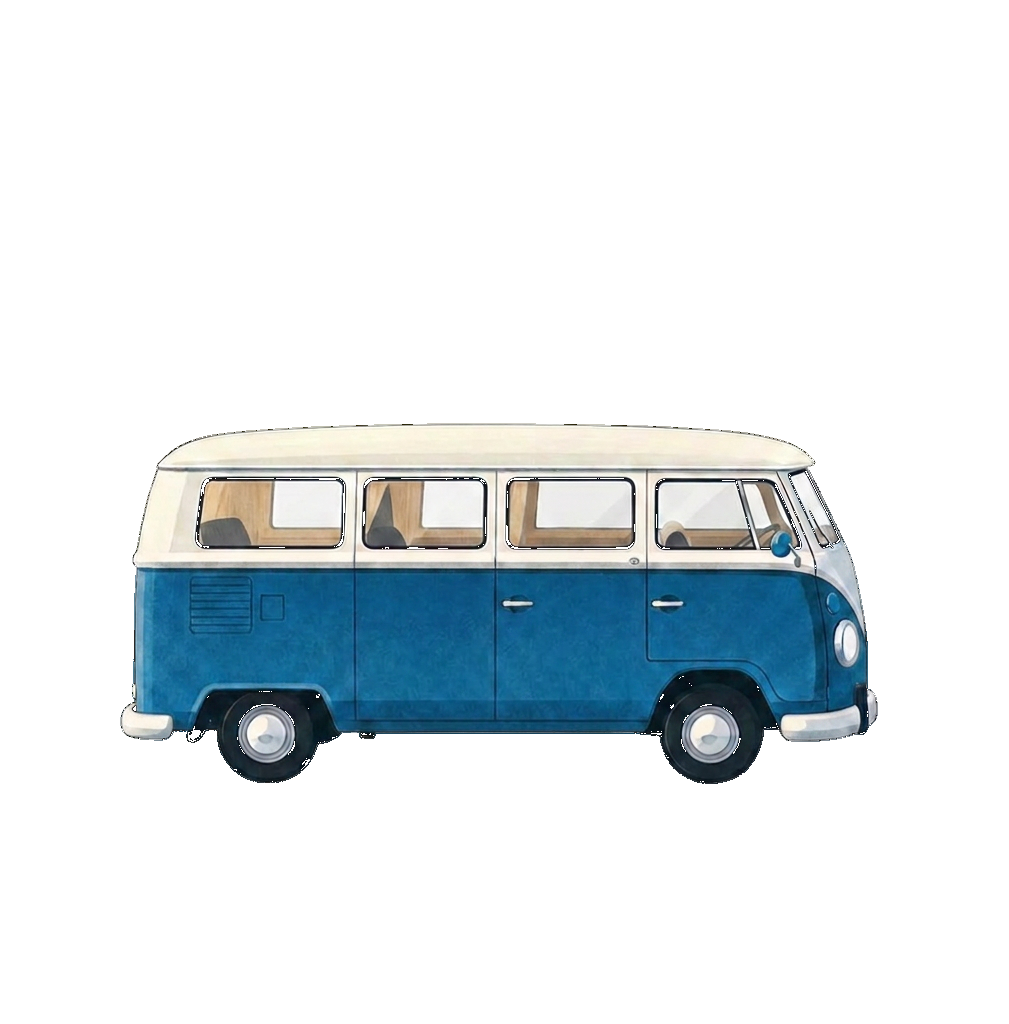
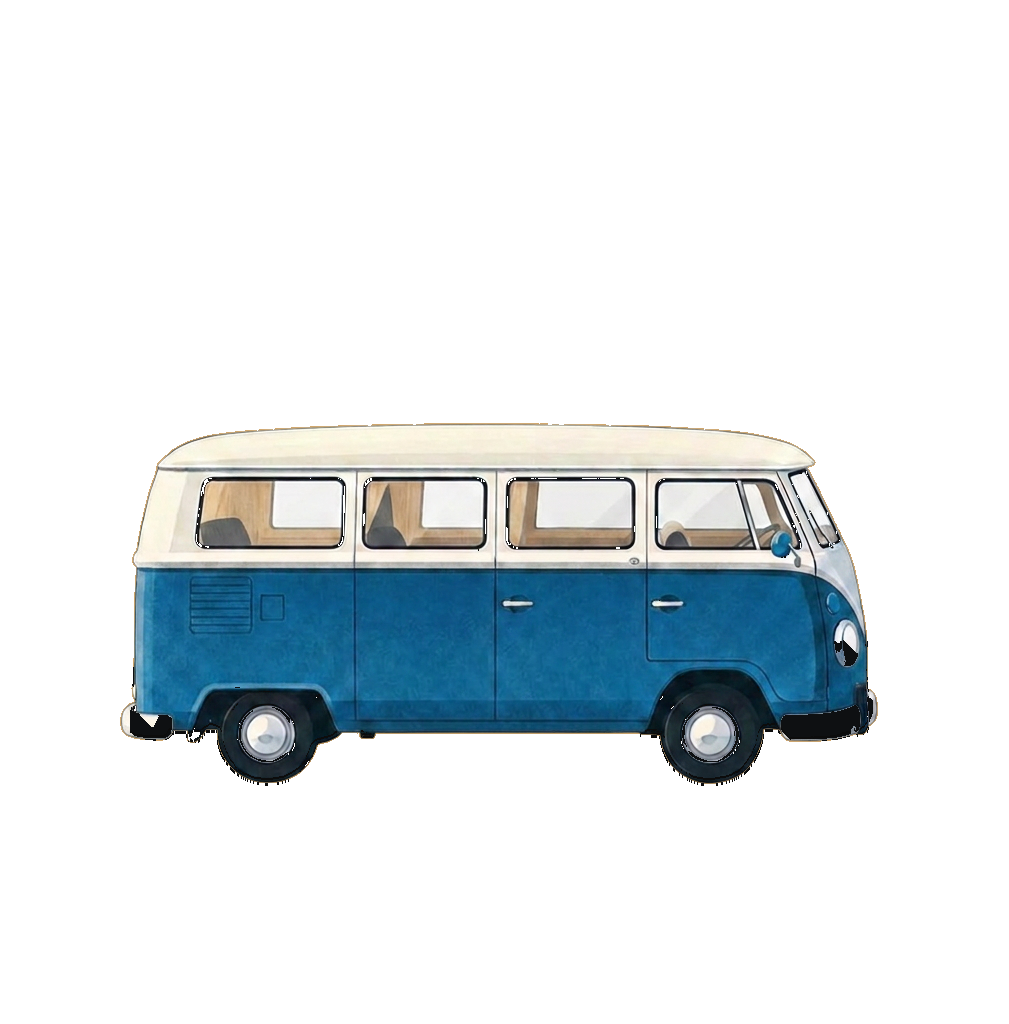
Further fade UI overlays and rebake drive-off tire edges
- Map header fill 65% -> 60%, placement preview sticker 42% -> 37%
- Reprocess side-van.png from source with road-tan matte compositing
- Remove all partial-alpha fringe on tires and harden rubber contact edge
- Match drive-off-van-wrap background to road color to prevent scale halos

diff --git a/sticker-prototype/src/App.css b/sticker-prototype/src/App.css
@@ -111,7 +111,7 @@
   background: #c4c1cd;
 }
 .van-scene--faded .placed-sticker {
-  opacity: 0.42;
+  opacity: 0.37;
   filter: saturate(0.85);
   transition: opacity 320ms ease-out, filter 320ms ease-out, width 320ms ease-out;
 }
@@ -305,6 +305,7 @@
   height: 225px;
   overflow: hidden;
   will-change: transform;
+  background-color: #d2a76c;
 }
 .drive-off-van-wrap--driving {
   animation: drive-off-exit 2.2s cubic-bezier(0.4, 0, 0.2, 1) forwards;
@@ -317,8 +318,6 @@
   height: 204.42%;
   max-width: none;
   object-fit: fill;
-  image-rendering: -webkit-optimize-contrast;
-  image-rendering: crisp-edges;
   display: block;
   pointer-events: none;
   user-select: none;
@@ -395,7 +394,7 @@
   align-items: flex-start;
   justify-content: space-between;
   box-sizing: border-box;
-  background: rgba(249, 247, 246, 0.65);
+  background: rgba(249, 247, 246, 0.6);
   backdrop-filter: blur(16px);
   -webkit-backdrop-filter: blur(16px);
   color: #063235;
